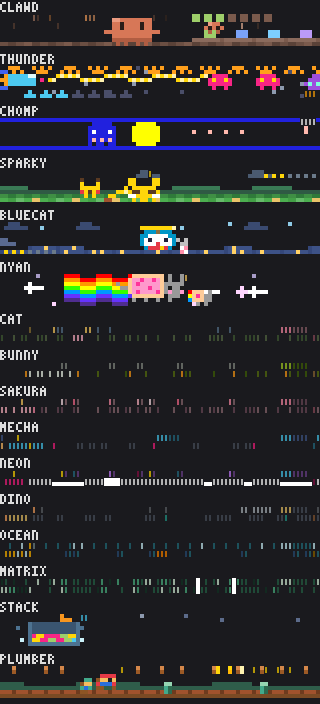
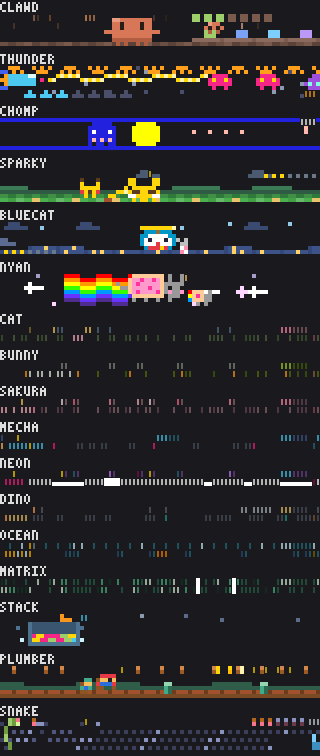
showtime: snake theme — reads well, all layers move, no jumps or holds at any width, apples/readout, rings, the fail flash-and-shorten, the golden apple and commit's gold wave clear; the figure-eight track shows only through the lighter lobes while the snake is short (acceptable); a grid snake windi

Changed region(s): [[0.0, 0.0, 1.0, 1.0], [0.7188, 0.5312, 0.8125, 0.5938], [0.6562, 0.5312, 0.6875, 0.5938]]

diff --git a/showtime/hooks/themes/snake.ts b/showtime/hooks/themes/snake.ts
@@ -1,0 +1,341 @@
+// Theme: snake. Its scene, its words and its pet.
+//
+// The scene: a grid snake (#9ece6a) winding a figure-eight in the left third of the band, a cell a
+// frame in every act, its body banded in two greens so the bands crawl, a pale head with a flick of red
+// across it for a tongue (every fourth frame idle, every other saying or hunting, every frame on bash).
+// The field is dim dots on a checkerboard, the two lobes it rounds a shade lighter, three dots over the
+// crossing, and a brighter wave rolling across it all. Its length is 3 + `done`, growing a cell as a
+// task lands, and `total` apples sit dim along the top right beside a `done/total` readout, `done` of
+// them red, the newest flashing white, all rolling colours at 100%. In a tool an apple in the tool's
+// colour appears ahead on the loop (eight cells or more; five on bash) and the snake runs it down, a
+// white bite as it reaches it, the next appearing further along. A sign right of the loop reads the
+// act (dots, a bobbing `?`, notes, the tool's mark). Each subagent (four at most) is a small snake of
+// its own hue circling a two-by-two ring at the bottom right, growing in and flashing white as it
+// joins. A failed test: the snake bites its tail, flashing red for eight frames and two cells shorter
+// for twenty, a `×`; a passed test: a golden apple ahead of it, the snake gold once it is eaten, a `★`,
+// twenty-four frames; a commit: the apples and the field's wave gold under a `✓`.
+//
+// Motion rules (tests/scenes.test.ts): the loop's cells carry no dots, so the head always enters an
+// empty cell and the tail always leaves one, and no frame can hold; the sign changes its ink every
+// other frame besides. New ink away from the body must start within a column of a run already there,
+// so the checkerboard is phased to the loop (the lobe length odd): no dot sits beside a straight in
+// its own row, where the tail leaving would expose it two columns from the body's end, and a dot sits
+// beside each corner the head turns into out of a rightward run (the lattice at the right side, the
+// three anchors at the crossing). Apples appear only at loop cells with a dot beside them in their own
+// row, or at the band's left edge, so their ink joins a run; the tongue stays on the head's cell. A
+// ring grows in from its top left (a dot in the row above anchors it), its margins kept clear, and
+// its zone is reserved only where a ring fits, so the right side's anchors survive a narrow band.
+import { canvas, cells, frame, mod, plot, put } from '../cells'
+import type { Canvas, Grid } from '../cells'
+import { SCENE_ROWS } from '../draw'
+import type { PetArt } from '../pets'
+import type { Signals, Theme, ToolKind } from '../themes'
+
+type Cell = readonly [x: number, y: number]
+
+/** The loop's left column, and the straight cells along a lobe's top by the band's width. */
+const LOOP_X = 1
+const MIN_LOBE = 3
+const MAX_LOBE = 7
+const BASE_LEN = 3
+const MIN_LEN = 2
+const WAVE = 16
+/** The sign's column from the loop's right side. */
+const SIGN_GAP = 2
+const SIGN_W = 3
+const APPLE_PITCH = 2
+const APPLE_EVERY = 8
+const APPLE_EVERY_BASH = 5
+const GOLD_EVERY = 6
+const BITE_FRAMES = 2
+const RING_PITCH = 3
+const MAX_AGENTS = 4
+/** The ring's cells in order: a two-by-two square, clockwise from its top left. */
+const RING: Cell[] = [[0, 2], [1, 2], [1, 3], [0, 3]]
+const RING_LEN = 3
+/** Columns a ring and its margins take, from its left cell. */
+const RING_ZONE = [-1, 0, 1, 2]
+const GREET_FRAMES = 8
+const FAIL_FLASH_FRAMES = 8
+const FAIL_FRAMES = 20
+const FAIL_SHORT = 2
+const PASS_FRAMES = 24
+const COMMIT_FRAMES = 12
+const DONE_FLASH_FRAMES = 8
+const DONE_ROLL_FRAMES = 16
+const TURN_FRAMES = 4
+
+const GREEN = '#9ece6a'
+const GREEN_DARK = '#6f9a3f'
+const HEAD = '#d9f99d'
+const RED = '#f7768e'
+const WHITE = '#ffffff'
+const GOLD = '#ffd60a'
+const PALE = '#fff3b0'
+const STEM = '#b5651d'
+const DOT = '#3b3f5c'
+const DOT_IN = '#51567c'
+const DOT_LIT = '#8a92bf'
+const DIM_APPLE = '#6b3a4a'
+const GREY = '#8d99ae'
+const SIGN = '#cfd8dc'
+const PALETTE = [GREEN, RED, GOLD, '#7dcfff', '#bb9af7']
+const APPLE: Record<ToolKind, string> = {
+  bash: RED, edit: '#ff9e64', read: '#e0af68', search: '#7dcfff', agent: '#bb9af7', web: '#7aa2f7', other: '#ff5d8f',
+}
+const TOOL_SIGN: Record<ToolKind, string> = {
+  bash: '$', edit: '✎', read: '¶', search: '⌕', agent: 'ᗣ', web: '◎', other: '✦',
+}
+/** Each agent's snake: its head and its body. */
+const HUES: readonly (readonly [string, string])[] = [
+  ['#7dcfff', '#3d8fbf'], ['#bb9af7', '#8060c0'], ['#ff9e64', '#c06a30'], ['#f7768e', '#b04060'],
+]
+
+/** Straight cells along a lobe's top: the loop is 2n + 5 wide, 4n + 10 long, in the left third. Odd, so
+ * the lattice falls beside the loop's corners and never beside its straights. */
+function lobeOf(w: number): number {
+  const n = Math.max(MIN_LOBE, Math.min(MAX_LOBE, Math.floor((Math.floor(w / 3) - 5) / 2)))
+  return n % 2 === 0 ? n - 1 : n
+}
+/** The crossing's column, and the right side's. */
+const crossOf = (n: number) => LOOP_X + n + 2
+const rightOf = (n: number) => LOOP_X + 2 * n + 4
+
+/** The figure-eight, from the top left lobe's first cell: along the top, down through the crossing to
+ * the right lobe's bottom, up its side, back along its top, down through the crossing again to the
+ * left lobe's bottom, and up its side. The two lobes meet only at the crossing. */
+function loopOf(n: number): Cell[] {
+  const c = crossOf(n)
+  const r = rightOf(n)
+  const out: Cell[] = []
+  for (let i = 1; i <= n; i++) out.push([LOOP_X + i, 0])
+  out.push([c - 1, 1], [c, 2], [c + 1, 3])
+  for (let i = 0; i < n; i++) out.push([c + 2 + i, 3])
+  out.push([r, 2], [r, 1])
+  for (let i = 0; i < n; i++) out.push([r - 1 - i, 0])
+  out.push([c + 1, 1], [c, 2], [c - 1, 3])
+  for (let i = 0; i < n; i++) out.push([c - 2 - i, 3])
+  out.push([LOOP_X, 2], [LOOP_X, 1])
+  return out
+}
+
+/** A cell of the band filled in `color`, both pixels. */
+function block(cv: Canvas, [x, y]: Cell, color: string): void {
+  plot(cv, x, 2 * y, color)
+  plot(cv, x, 2 * y + 1, color)
+}
+
+/** An apple: a stem pixel over the fruit. */
+function apple(cv: Canvas, [x, y]: Cell, color: string, stem = STEM): void {
+  plot(cv, x, 2 * y, stem)
+  plot(cv, x, 2 * y + 1, color)
+}
+
+/** Loop indices where an apple may appear: cells with a dot beside them in their own row (the lobes'
+ * far ends, the cells by the crossing's anchors) or at the band's left edge, so its ink joins a run. */
+function spotsOf(n: number): number[] {
+  return [n - 1, n, 2 * n + 2, 2 * n + 3, 3 * n + 4, 3 * n + 5, 4 * n + 7, 4 * n + 8, 4 * n + 9]
+}
+
+/** The first spot at index `i` or after. */
+function nextSpot(i: number, spots: number[], L: number): number {
+  const m = mod(i, L)
+  for (const sp of spots) if (sp >= m) return i - m + sp
+  return i - m + L + spots[0]!
+}
+
+/** The apple ahead: the first spot `every` or more past where the head was when the hunt began (and
+ * past each apple eaten), with the frames since the last bite. */
+function appleAhead(
+  t: number, t0: number, every: number, spots: number[], L: number,
+): { ahead: number; bitten: number } {
+  let a = nextSpot(t0 + every, spots, L)
+  let prev = -BITE_FRAMES
+  while (a <= t) { prev = a; a = nextSpot(a + every, spots, L) }
+  return { ahead: a - t, bitten: t - prev }
+}
+
+/** The field: a dot in the lower pixel of every other cell, a checkerboard, three more over the crossing
+ * (beside the loop's corners, the anchors), the lobes' insides a shade lighter so the track shows, a
+ * brighter wave rolling right (gold on a commit); none on the loop, beside the rings, under the sign
+ * or along the apple row. */
+function field(cv: Canvas, t: number, n: number, reserved: Set<number>, isCommit: boolean): void {
+  const c = crossOf(n)
+  const r = rightOf(n)
+  for (let y = 0; y < SCENE_ROWS; y++) {
+    for (let x = 0; x < cv.w; x++) {
+      const anchor = (y === 0 && Math.abs(x - c) === 1) || (y === 1 && x === c)
+      if ((mod(x + y, 2) !== 0 && !anchor) || reserved.has(y * cv.w + x)) continue
+      const inside = y >= 1 && y <= 2 && ((x > LOOP_X && x <= LOOP_X + n) || (x >= c + 2 && x < r))
+      const crest = mod(x + 2 * y - t, WAVE) < 3
+      plot(cv, x, 2 * y + 1, crest ? (isCommit ? GOLD : DOT_LIT) : inside ? DOT_IN : DOT)
+    }
+  }
+}
+
+/** The cells the field leaves clear: the loop, the sign's box, the apple row and the zones of the rings
+ * that fit (whether an agent stands there or not). */
+function reservedOf(w: number, loop: Cell[], signX: number, hudL: number): Set<number> {
+  const out = new Set(loop.map(([x, y]) => y * w + x))
+  for (let y = 0; y < 2; y++) for (let x = signX; x < signX + SIGN_W; x++) out.add(y * w + x)
+  for (let x = Math.max(0, hudL); x < w; x++) out.add(x)
+  for (let i = 0; i < MAX_AGENTS && w - 2 - RING_PITCH * i >= hudL; i++) {
+    for (const dx of RING_ZONE) for (const y of [2, 3]) out.add(y * w + w - 2 - RING_PITCH * i + dx)
+  }
+  return out
+}
+
+/** The snake's length now: three and a task, two shorter while a failed test smarts, regrowing a cell a
+ * frame after, growing a cell a frame as a task lands; never longer than the loop less four. */
+function lengthOf(s: Signals, loopLen: number): number {
+  let len = BASE_LEN + Math.min(s.done, Math.max(0, loopLen - 4 - BASE_LEN))
+  if (s.doneAge < 1) len -= 1
+  if (s.news === 'testFail') {
+    if (s.newsAge < FAIL_FRAMES) len -= FAIL_SHORT
+    else if (s.newsAge < FAIL_FRAMES + FAIL_SHORT) len -= FAIL_FRAMES + FAIL_SHORT - s.newsAge
+  }
+  return Math.max(MIN_LEN, len)
+}
+
+/** Segment `k` of the snake (0 the head) at `t`: its colour by the news, the bite and its band. */
+function segmentColor(k: number, t: number, s: Signals, bite: boolean, golden: boolean, allDone: boolean): string {
+  if (s.news === 'testFail' && s.newsAge < FAIL_FLASH_FRAMES) return mod(t, 2) === 0 ? RED : k === 0 ? HEAD : GREEN
+  if (golden) return mod(k + t, 2) === 0 ? GOLD : PALE
+  if (allDone && s.doneAge < DONE_ROLL_FRAMES) return frame(PALETTE, k + (s.doneAge >> 1))
+  if (k === 0) return bite ? WHITE : HEAD
+  return mod(k, 2) === 0 ? GREEN : GREEN_DARK
+}
+
+/** The tasks along the top right: `count` apples two apart left of the readout, the `lit` leftmost red
+ * (the newest flashing white, all rolling colours at 100%, white on a commit), the rest dim. */
+function hud(cv: Canvas, s: Signals, hudL: number, hudR: number, isCommit: boolean, allDone: boolean): void {
+  const count = Math.min(s.total, Math.max(0, Math.floor((hudR - hudL) / APPLE_PITCH) + 1))
+  const lit = s.total > count ? Math.floor(s.done * count / s.total) : Math.min(s.done, count)
+  for (let j = 0; j < count; j++) {
+    const x = hudR - (count - 1 - j) * APPLE_PITCH
+    if (j >= lit) { apple(cv, [x, 0], DIM_APPLE, DOT_LIT); continue }
+    let color = RED
+    if (j === lit - 1 && s.doneAge < DONE_FLASH_FRAMES && mod(s.doneAge, 2) === 0) color = WHITE
+    else if (allDone && s.doneAge < DONE_ROLL_FRAMES) color = frame(PALETTE, j + (s.doneAge >> 1))
+    else if (isCommit && mod(s.newsAge, 2) === 0) color = WHITE
+    apple(cv, [x, 0], color)
+  }
+}
+
+/** The agents: a small snake of its own hue circling a ring per agent (four at most), from the right
+ * edge leftward in the bottom rows, each out of step; the newest grows in a cell a frame from the
+ * ring's top left and flashes white as it joins (and again, harmlessly, when one leaves). */
+function agents(cv: Canvas, t: number, s: Signals, minX: number): void {
+  const n = Math.min(s.agents, MAX_AGENTS)
+  for (let i = 0; i < n; i++) {
+    const x0 = cv.w - 2 - RING_PITCH * i
+    if (x0 < minX) break
+    const newest = i === n - 1 && s.agentsAge < GREET_FRAMES
+    const growing = newest && s.agentsAge < RING_LEN
+    const [head, body] = HUES[i]!
+    for (let k = 0; k < (growing ? s.agentsAge + 1 : RING_LEN); k++) {
+      const [dx, dy] = growing ? RING[k]! : frame(RING, t + 2 * i - k)
+      const color = newest && mod(s.agentsAge, 2) === 0 ? WHITE : k === 0 ? head : body
+      block(cv, [x0 + dx, dy], color)
+    }
+  }
+}
+
+/** The sign right of the loop: the news first, else the act, dots while the act turns. Each changes its
+ * ink every other frame at least (a length, or the `?` bobbing a row), so no frame can hold. */
+function sign(
+  s: Signals, t: number, age: number, isFail: boolean, isPass: boolean, isCommit: boolean,
+): { text: string; c: string; row: number } {
+  const row = age === 0 ? 1 : 0
+  if (isFail) return { text: frame(['×', '×·'], t >> 1), c: GREY, row }
+  if (isPass) return { text: frame(['★', '★·', '☆', '☆·'], t >> 1), c: GOLD, row }
+  if (isCommit) return { text: frame(['✓', '✓·'], t >> 1), c: GOLD, row }
+  if (age < TURN_FRAMES) return { text: frame(['·', '··'], t), c: PALE, row }
+  if (s.act === 'tool') return { text: TOOL_SIGN[s.tool ?? 'other'] + frame(['', '·', '··', '·'], t), c: GOLD, row }
+  if (s.act === 'ask') return { text: '?', c: GOLD, row: mod(t, 4) < 2 ? 0 : 1 }
+  if (s.act === 'say') return { text: frame(['♪', '♪♫', '♫', '♫♪'], t >> 1), c: GREEN, row }
+  if (s.act === 'think') return { text: frame(['·', '··', '···', '··'], t >> 1), c: SIGN, row }
+  return { text: frame(['.', '..', '...', '..'], t >> 1), c: SIGN, row }
+}
+
+export function snakeScene(t: number, w: number, s: Signals): Grid {
+  const cv = canvas(w, SCENE_ROWS)
+  const n = lobeOf(w)
+  const loop = loopOf(n)
+  const L = loop.length
+  const spots = spotsOf(n)
+  const at = (i: number) => loop[mod(i, L)]!
+  const signX = rightOf(n) + SIGN_GAP
+  const readout = s.total > 0 ? `${s.done}/${s.total}` : ''
+  const readoutX = w - readout.length
+  const hudL = signX + SIGN_W + 1
+  const hudR = readoutX - 2
+  const bash = s.act === 'tool' && s.tool === 'bash'
+  const isFail = s.news === 'testFail' && s.newsAge < FAIL_FRAMES
+  const isPass = s.news === 'testPass' && s.newsAge < PASS_FRAMES
+  const isCommit = s.news === 'commit' && s.newsAge < COMMIT_FRAMES
+  const allDone = s.total > 0 && s.done >= s.total
+  const age = Math.min(s.actAge, s.toolAge)
+  const prey = s.act === 'tool' ? appleAhead(t, t - age, bash ? APPLE_EVERY_BASH : APPLE_EVERY, spots, L) : undefined
+  const golden = isPass ? appleAhead(t, t - s.newsAge, GOLD_EVERY, spots, L) : undefined
+  const goldenEaten = golden !== undefined && golden.bitten <= s.newsAge
+  const bite = (prey?.bitten ?? BITE_FRAMES) < BITE_FRAMES || (goldenEaten && golden.bitten < BITE_FRAMES)
+
+  // Layer 1: the field, its wave rolling; layer 2: the apple ahead on the loop.
+  field(cv, t, n, reservedOf(w, loop, signX, hudL), isCommit)
+  if (golden && !goldenEaten) apple(cv, at(t + golden.ahead), mod(t, 2) === 0 ? GOLD : PALE, PALE)
+  else if (prey) apple(cv, at(t + prey.ahead), APPLE[s.tool ?? 'other'])
+  // Layer 3: the snake, tail first so the head lies over the crossing, its tongue a flick of red
+  // across the head's top.
+  const len = lengthOf(s, L)
+  for (let k = len - 1; k >= 0; k--) block(cv, at(t - k), segmentColor(k, t, s, bite, goldenEaten, allDone))
+  const flick = bash ? 1 : s.act === 'tool' || s.act === 'say' ? 2 : 4
+  if (mod(t, flick) === 0 && !bite && !goldenEaten) plot(cv, at(t)[0], 2 * at(t)[1], RED)
+  // Layer 4: the task apples and the agents' rings.
+  hud(cv, s, hudL, hudR, isCommit, allDone)
+  agents(cv, t, s, hudL)
+
+  const g = cells(cv)
+  if (readout) put(g, readoutX, 0, readout, { c: isCommit || isPass ? GOLD : allDone ? GREEN : SIGN, b: true })
+  // The sign, a row down the frame the act turns; it yields to the readout when the band is narrow.
+  if (!readout || signX + SIGN_W <= readoutX - 1) {
+    const { text, c, row } = sign(s, t, age, isFail, isPass, isCommit)
+    put(g, signX, row, text, { c, b: s.act !== 'think' || isFail || isPass || isCommit })
+  }
+  return g
+}
+
+/** A coiled snake: banded coils under a raised head. */
+export const PET: PetArt = {
+  body: ['........HHHH', '........HHHH', '..GDGDGDGD..', '.DGDGDGDGDG.', '..GDGDGDGD..'],
+  step: ['........HHHH', '........HHHH', '..GDGDGDGD..', '.GDGDGDGDGD.', '..DGDGDGDG..'],
+  colors: { H: HEAD, G: GREEN, D: GREEN_DARK },
+  eyes: [9, 11],
+  eyeRow: 0,
+  eye: '#1d1d1d',
+  lid: HEAD,
+  mouth: [9, 1],
+  blush: RED,
+  spark: GOLD,
+}
+
+export const SNAKE: Theme = {
+  name: 'snake',
+  rows: SCENE_ROWS,
+  color: GREEN,
+  accent: RED,
+  sprite: {
+    think: ['~~●  ', ' ~~● ', '  ~~●', ' ~~● '],
+    tool: ['~~● ○', ' ~~●○', '  ~~●', ' ~~● '],
+    say: ['~~● ♪', '~~● ♫'],
+    wait: ['~~● .', '~~● ..', '~~● ...'],
+  },
+  happy: '~~● ★',
+  sad: '~~● …',
+  dead: '~~✕',
+  sleep: '~~● zZ',
+  confetti: ['●', '○', '·', '+'],
+  palette: PALETTE,
+  scene: snakeScene,
+  pet: PET,
+}

diff --git a/showtime/hooks/themes.ts b/showtime/hooks/themes.ts
@@ -22,6 +22,7 @@ import { OCEAN } from './themes/ocean'
 import { MATRIX } from './themes/matrix'
 import { STACK } from './themes/stack'
 import { PLUMBER } from './themes/plumber'
+import { SNAKE } from './themes/snake'
 
 export * from './cells'
 export type { ToolKind } from './feed'
@@ -44,6 +45,7 @@ export const THEME_NAMES = [
   'matrix',
   'stack',
   'plumber',
+  'snake',
 ] as const
 export type ThemeName = (typeof THEME_NAMES)[number]
 
@@ -130,7 +132,7 @@ export function nextTheme(current: ThemeName): ThemeName {
 export const THEMES: Record<ThemeName, Theme> = {
   clawd: CLAWD, thunder: THUNDER, chomp: CHOMP, sparky: SPARKY, bluecat: BLUECAT, nyan: NYAN,
   cat: CAT, bunny: BUNNY, sakura: SAKURA, mecha: MECHA, neon: NEON, dino: DINO, ocean: OCEAN, matrix: MATRIX,
-  stack: STACK, plumber: PLUMBER,
+  stack: STACK, plumber: PLUMBER, snake: SNAKE,
 }
 
 export function themeOf(name: unknown): Theme {

diff --git a/showtime/tests/scenes.test.ts b/showtime/tests/scenes.test.ts
@@ -7,7 +7,7 @@ import type { Act, NewsKind, Signals } from '../hooks/themes'
 const ACTS: Act[] = ['think', 'tool', 'ask', 'say']
 const NEWS: NewsKind[] = ['testPass', 'testFail', 'commit']
 /** Themes that meet the motion rules already (each polish task adds its own). */
-const POLISHED = new Set<string>(['clawd', 'thunder', 'chomp', 'sparky', 'bluecat', 'nyan', 'cat', 'bunny', 'sakura', 'mecha', 'neon', 'dino', 'ocean', 'matrix', 'stack', 'plumber'])
+const POLISHED = new Set<string>(['clawd', 'thunder', 'chomp', 'sparky', 'bluecat', 'nyan', 'cat', 'bunny', 'sakura', 'mecha', 'neon', 'dino', 'ocean', 'matrix', 'stack', 'plumber', 'snake'])
 
 function sig(over: Partial<Signals>): Signals {
   return { ...IDLE_SIGNALS, ...over }

diff --git a/showtime/README.en.md b/showtime/README.en.md
@@ -24,6 +24,7 @@ Pixel-art scenes, three rows of half-block pixels:
 - `nyan`: a pop-tart cat on a rainbow trail across the stars.
 - `stack`: a falling-block well: pieces hover over it and drop in while tools run, done tasks settle as rows, a failed test topples the stack.
 - `plumber`: a platformer runner bouncing in place while hills, bricks and pipes scroll by, running and jumping the pipes while tools run; done tasks turn ? blocks into spinning coins, all done slides in the flagpole.
+- `snake`: a grid snake winding a figure-eight over a dotted field, growing a cell per done task; while tools run an apple appears ahead and it runs it down, a failed test makes it bite its tail, a passed test is a golden apple.
 
 Character scenes, two rows: `cat`, `bunny`, `sakura`, `mecha`, `neon`, `dino`, `ocean`, `matrix`. Or `random` for a new one each session.
 
